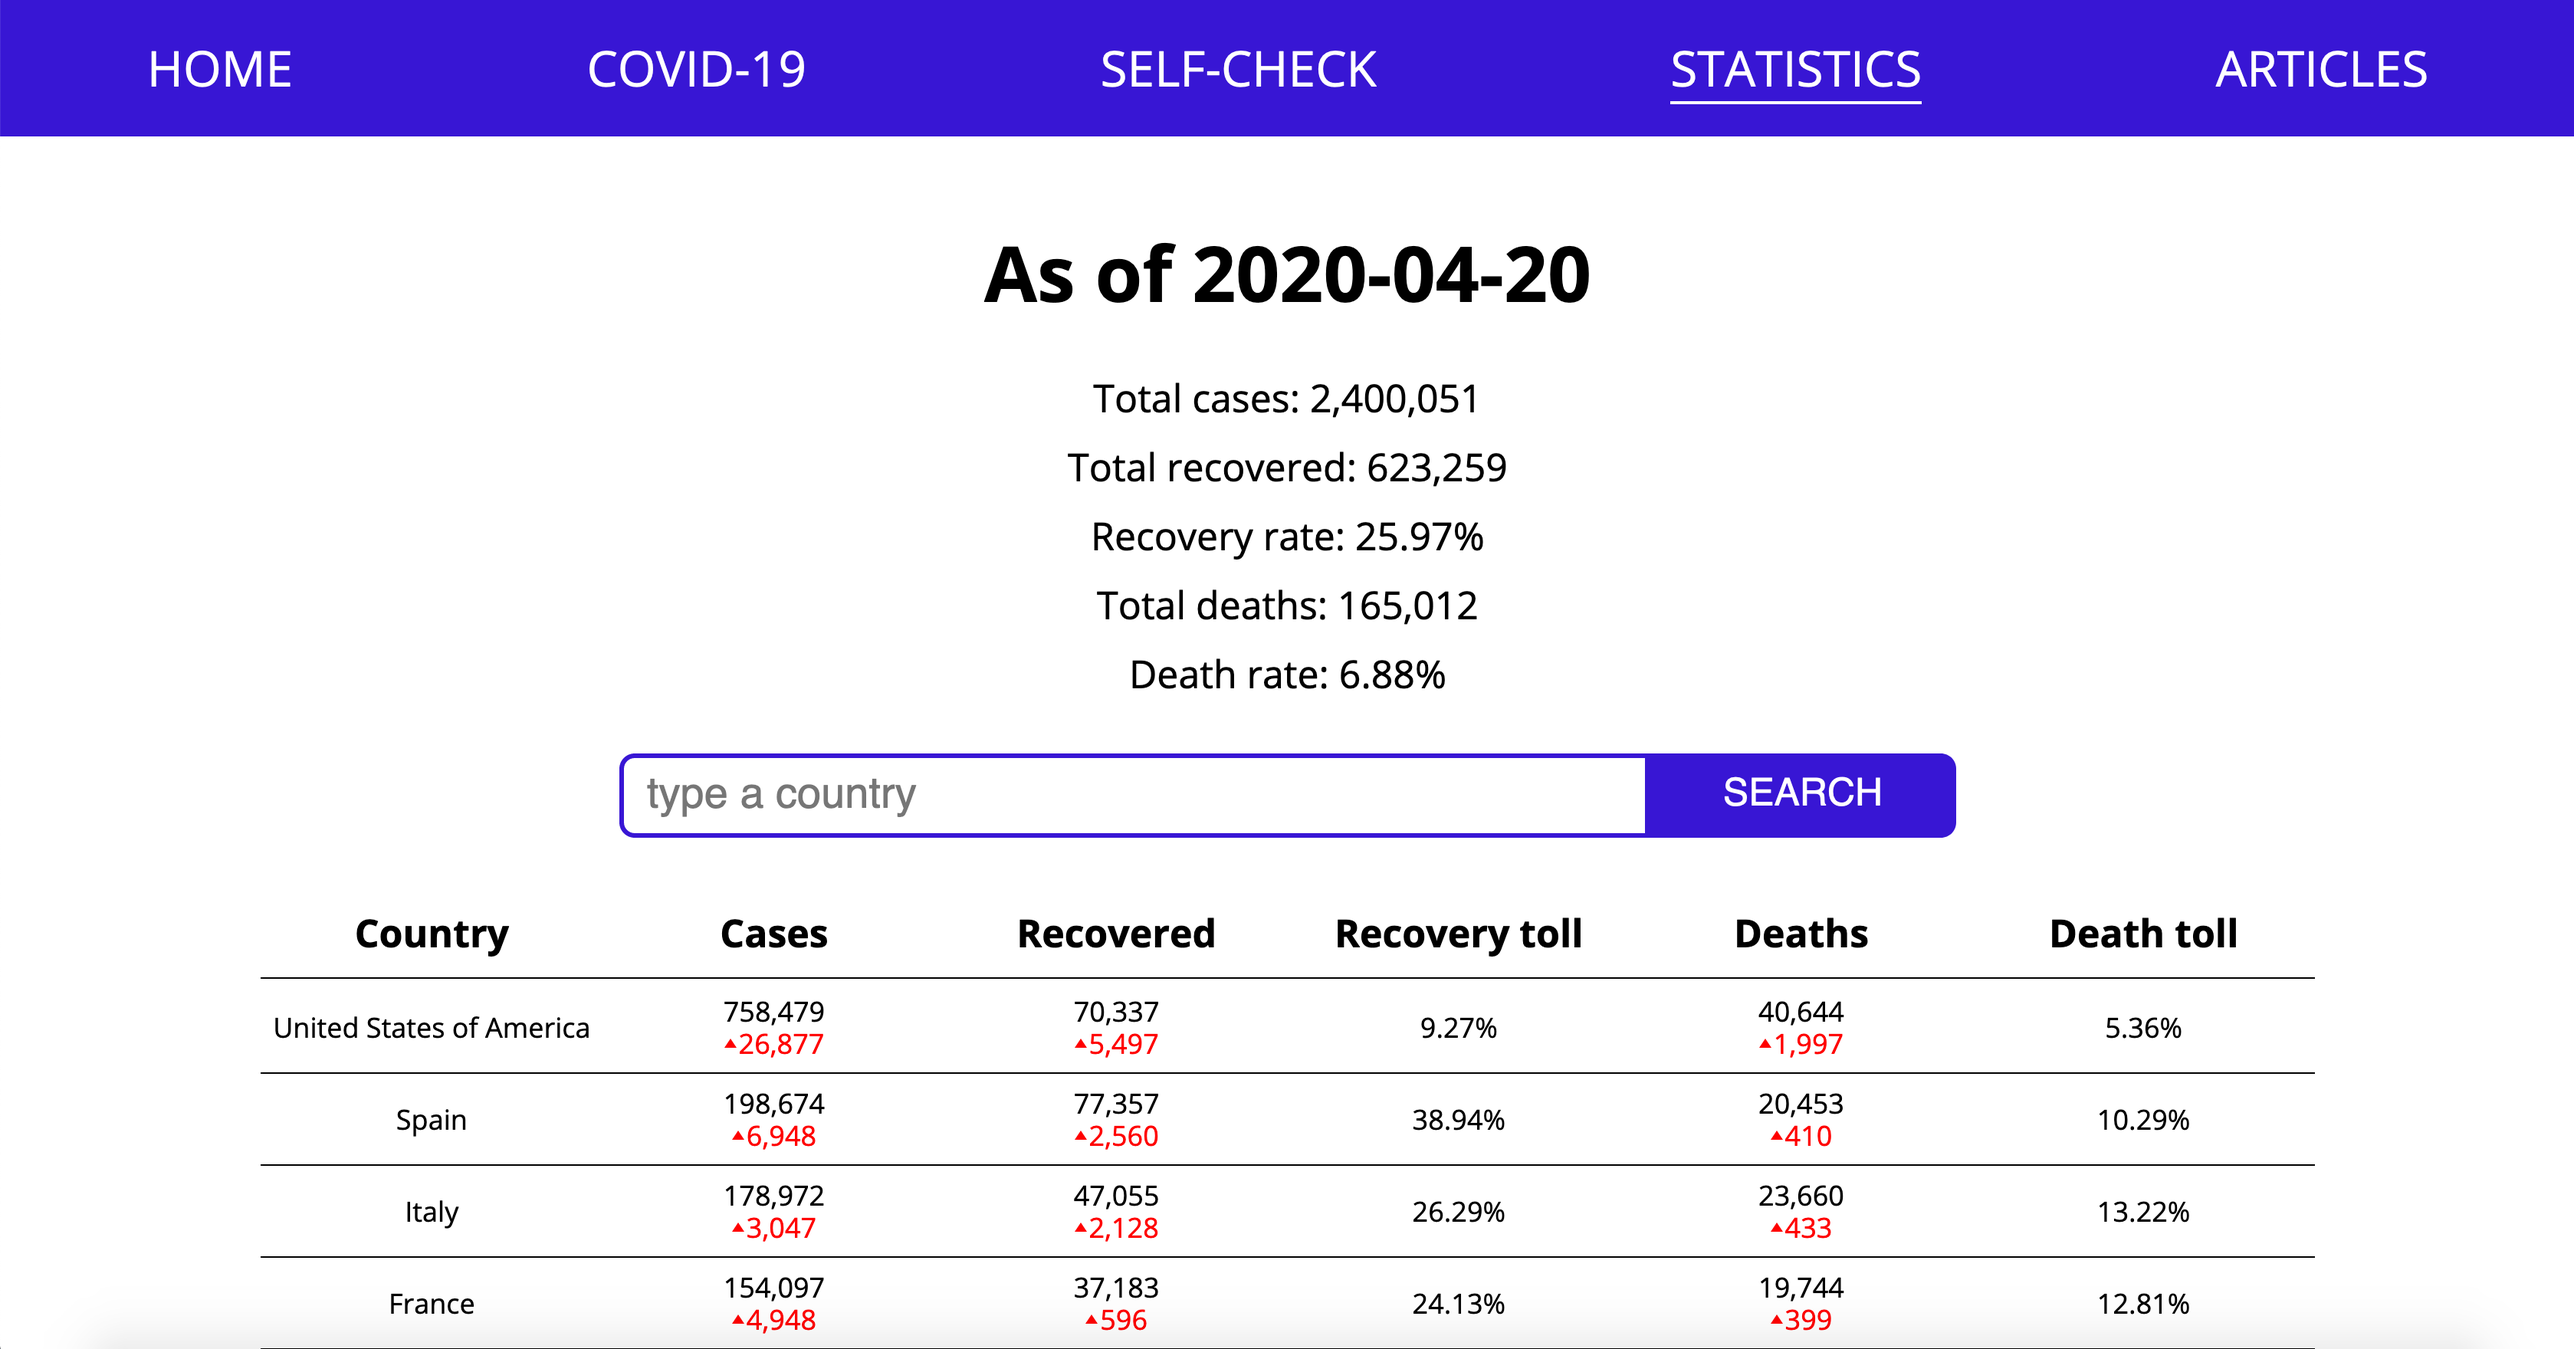
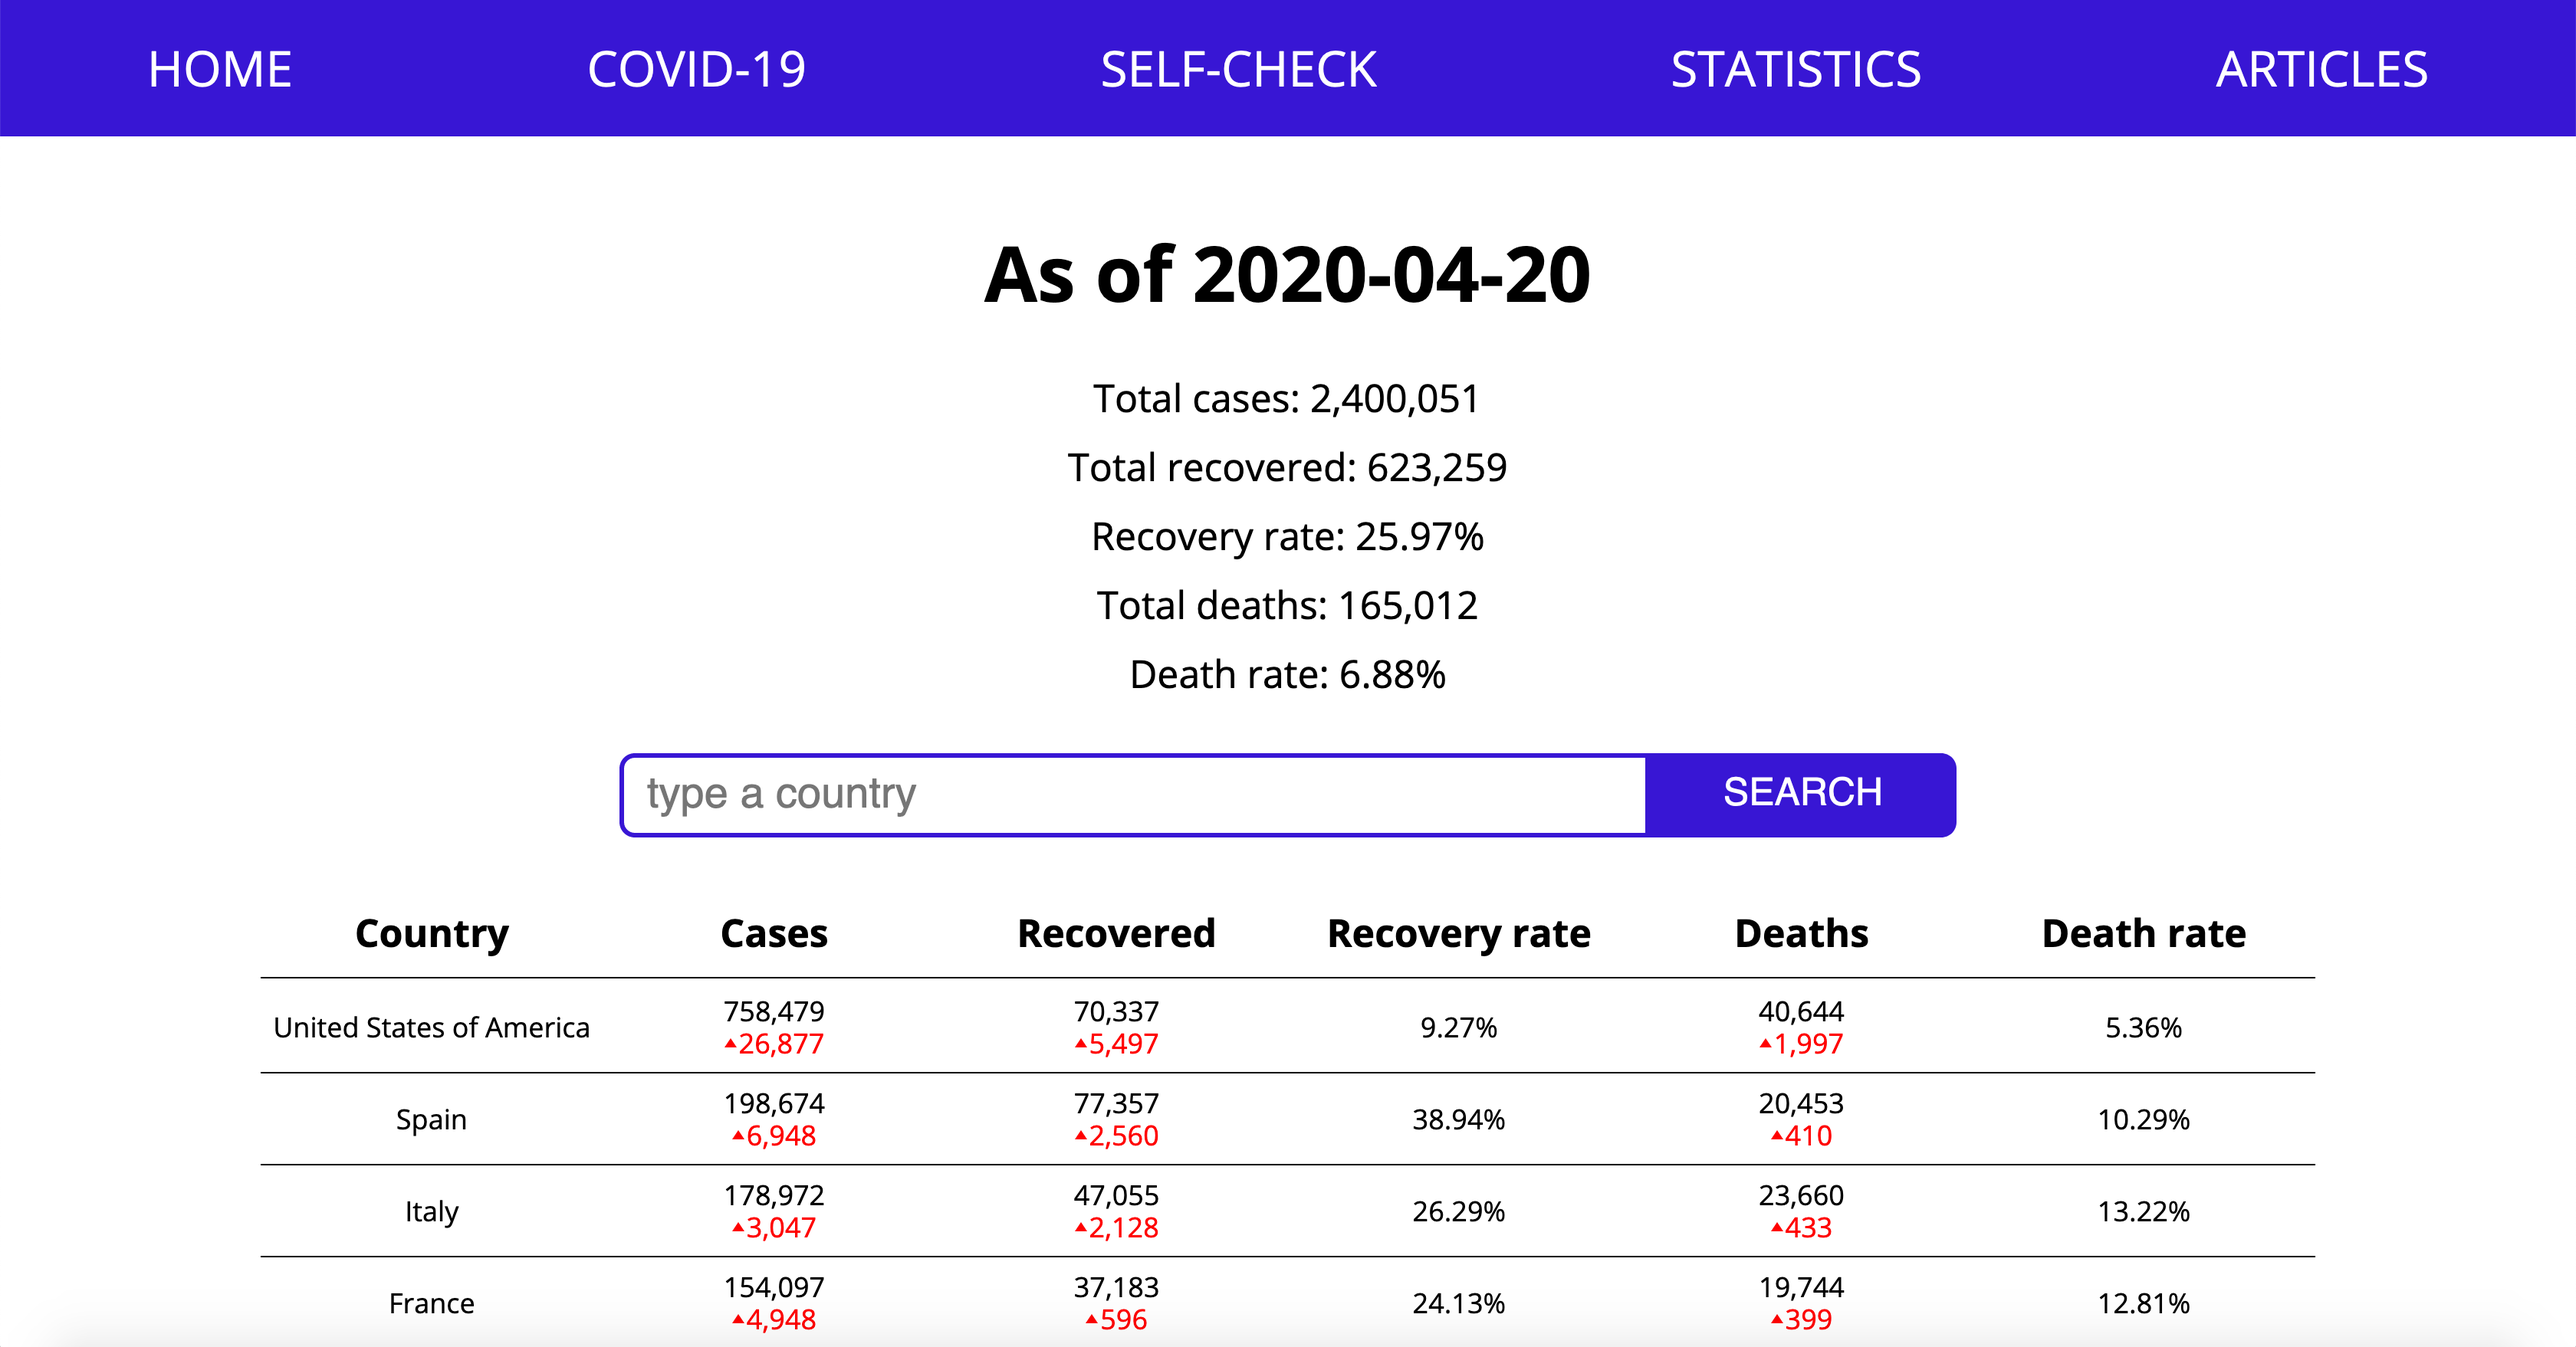
readme image changed

diff --git a/src/components/contents/Statistics.js b/src/components/contents/Statistics.js
@@ -70,11 +70,11 @@ class Statistic extends Component {
 
                             <th>Recovered</th>
 
-                            <th>Recovery toll</th>
+                            <th>Recovery rate</th>
 
                             <th>Deaths</th>
 
-                            <th>Death toll</th>
+                            <th>Death rate</th>
                         </tr>
                     </thead>
 
